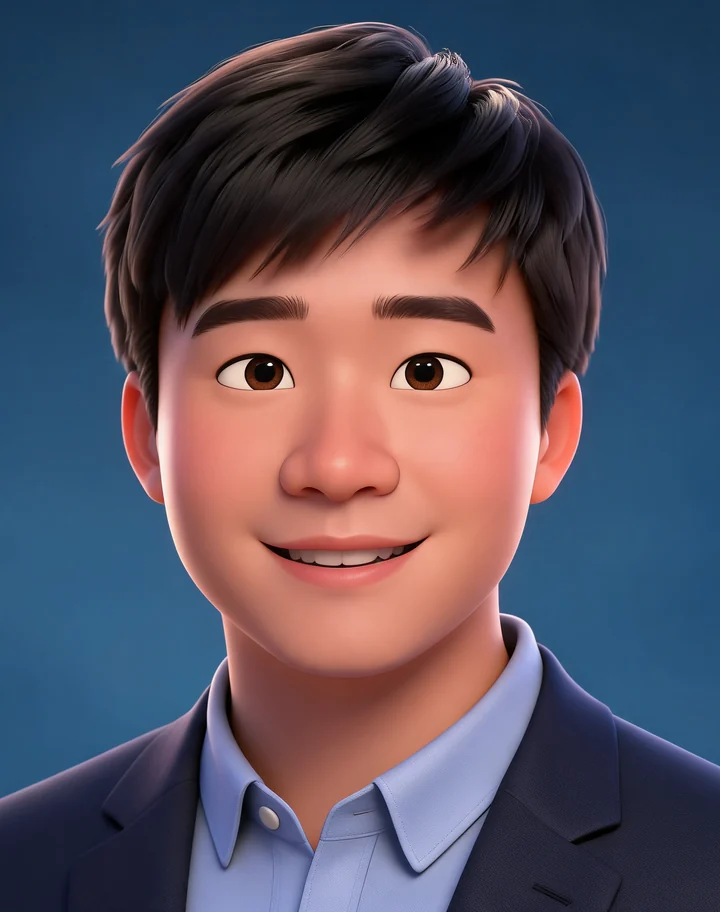
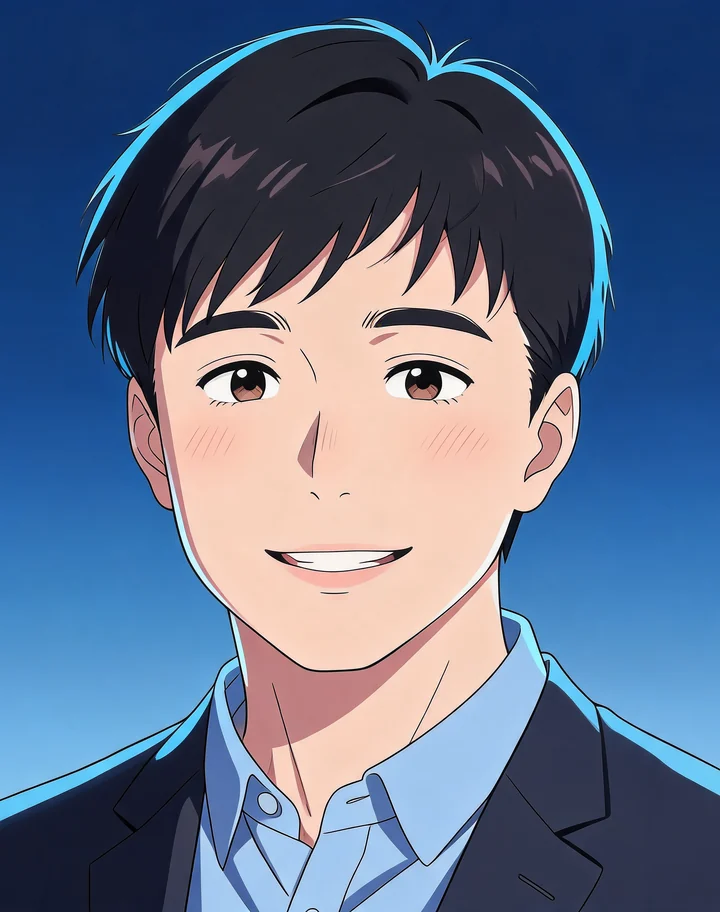
style: 头像换成日本动漫电影风格

diff --git a/public/assets/img/art-readme.md b/public/assets/img/art-readme.md
@@ -12,7 +12,7 @@
 
 深色版已将透明底合成到页面纸色上，体积从 ~1MB 压至 44-74KB。
 
-avatar.webp 由 Seedream 5.0-lite 以真人照片为参考生成（保留特征的三维卡通职业头像），
+avatar.webp 由 Seedream 5.0-lite 以真人照片为参考生成（日本动漫电影级作画风格），
 原始真人照片已移出公开仓库，仅保留在本地。
 
 生成脚本（临时）：`/tmp/inkgen/index.html` + `/tmp/inkgen/export_inks.py`。
